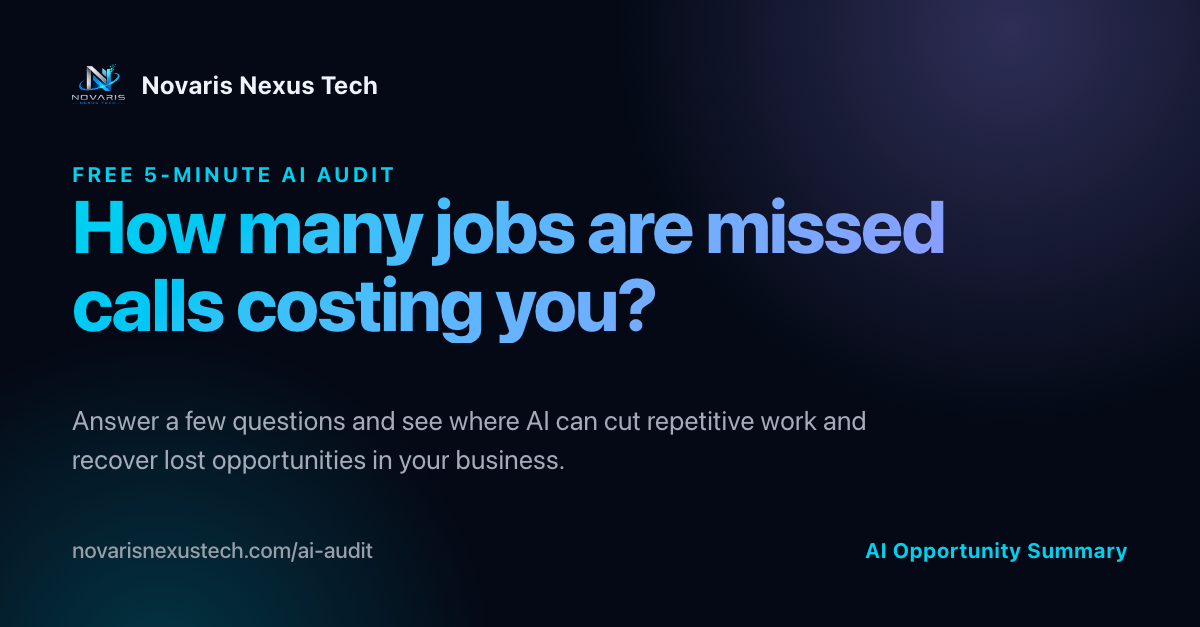
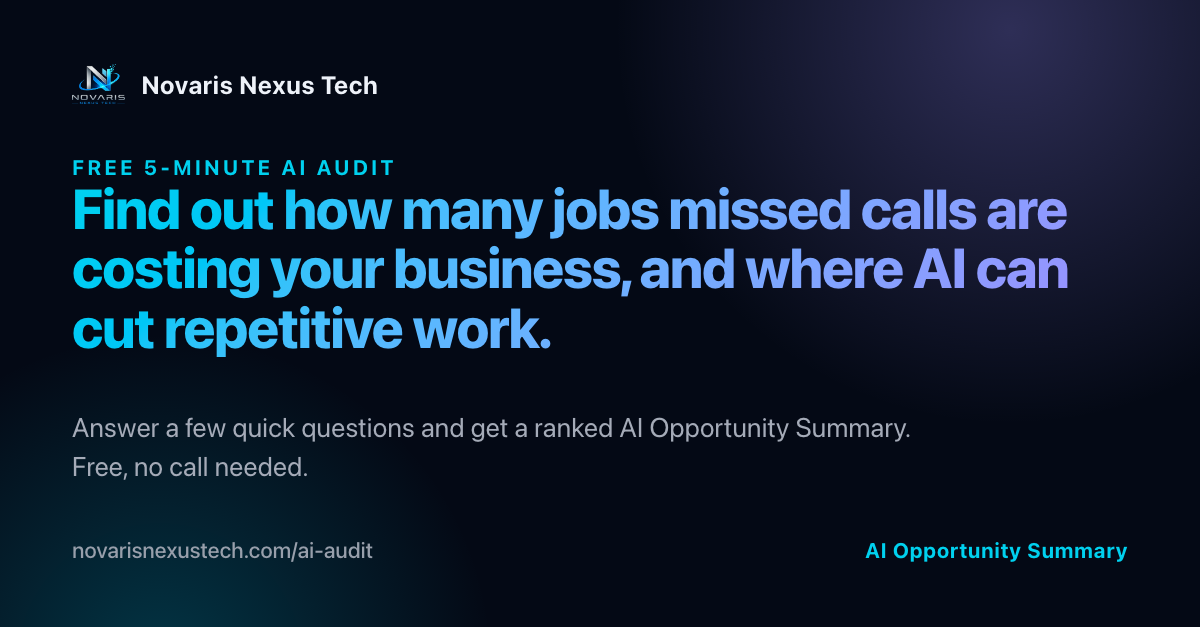
Sharpen the audit hook to name the loss and the fix
Leads the card and the og:title with both halves of the claim: missed
calls cost you jobs, and AI can cut the repetitive work around them.
"and how to reduce" read as advice-seeking; "where AI can cut" is the
finding the audit actually produces.

The headline is 100 characters, so the card drops to 56px and wraps to
three lines to keep it on the canvas -- verified no clipping and scroll
size still exactly 1200x627.

Also restored the --dump-html flag. It was dropped when the image
definitions became lazy thunks, so it silently rendered a fresh set of
PNGs instead of dumping the markup, and the layout check was reading
stdout instead of HTML.

og:image:alt now carries the headline too, since alt text is what gets
read aloud or shown when the image fails to load.

Changed region(s): [[0.0617, 0.2424, 0.8942, 0.5758], [0.0617, 0.6364, 0.7708, 0.697], [0.0617, 0.7273, 0.4625, 0.7576]]

diff --git a/src/routes/ai-audit.tsx b/src/routes/ai-audit.tsx
@@ -18,13 +18,14 @@ export const Route = createFileRoute("/ai-audit")({
           "Answer a few quick questions and get a personalized AI Opportunity Summary: where AI could save time, automate work, or reduce missed opportunities, and which are worth exploring first. Free, no call needed.",
       },
       ...socialMeta({
-        title: "Find out how many jobs missed calls are costing your business",
+        title:
+          "Find out how many jobs missed calls are costing your business, and where AI can cut repetitive work.",
         description:
           "A free 5-minute AI audit scores where missed calls, repetitive work and lost opportunities are costing you — and where AI can recover them. No call needed.",
         path: "/ai-audit",
         image: {
           path: "/og/ai-audit.png",
-          alt: "How many jobs are missed calls costing you? Free 5-minute AI audit from Novaris Nexus Tech",
+          alt: "Find out how many jobs missed calls are costing your business, and where AI can cut repetitive work. Free 5-minute AI audit from Novaris Nexus Tech",
         },
       }),
     ],
